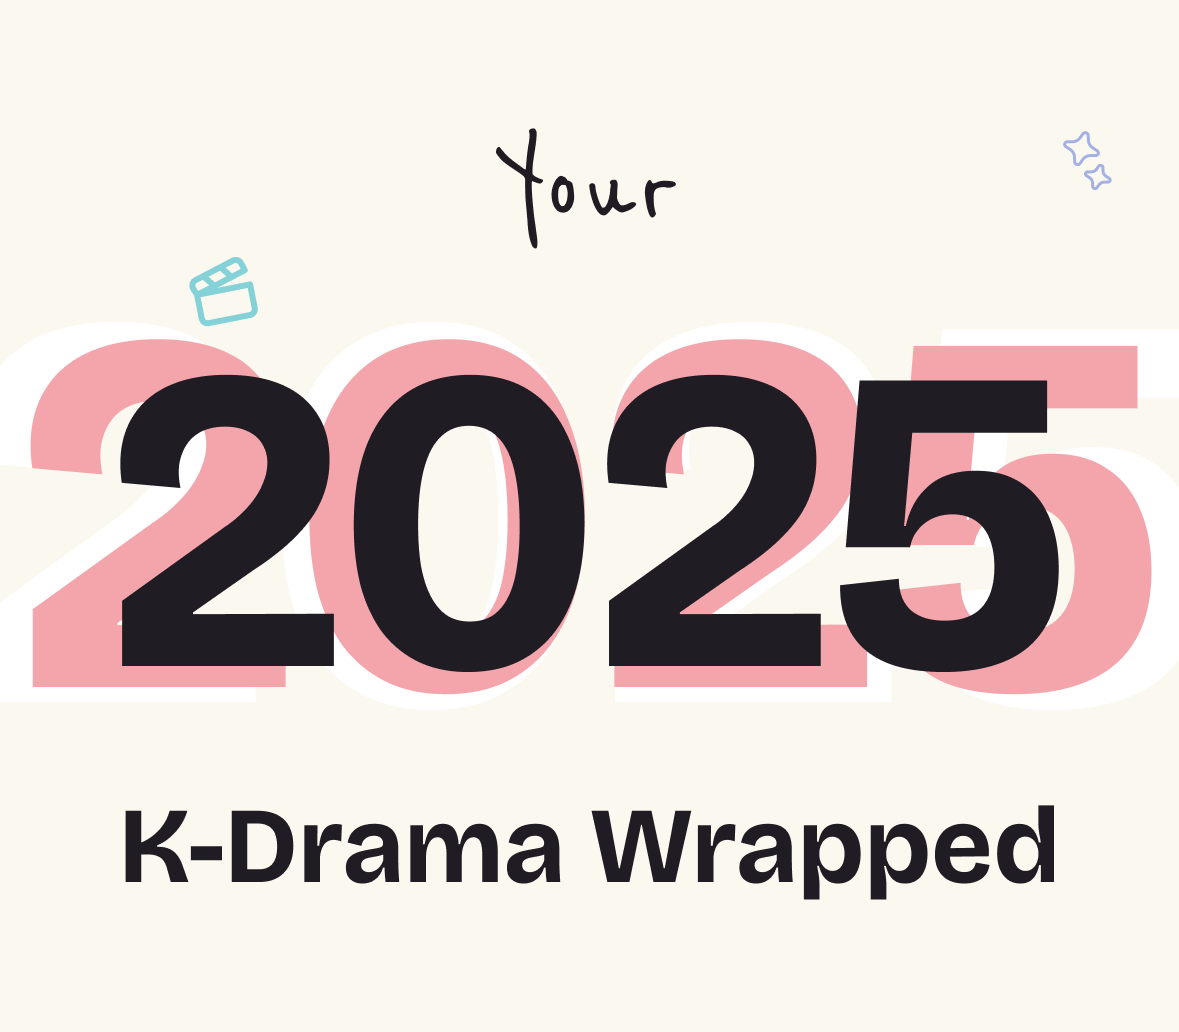
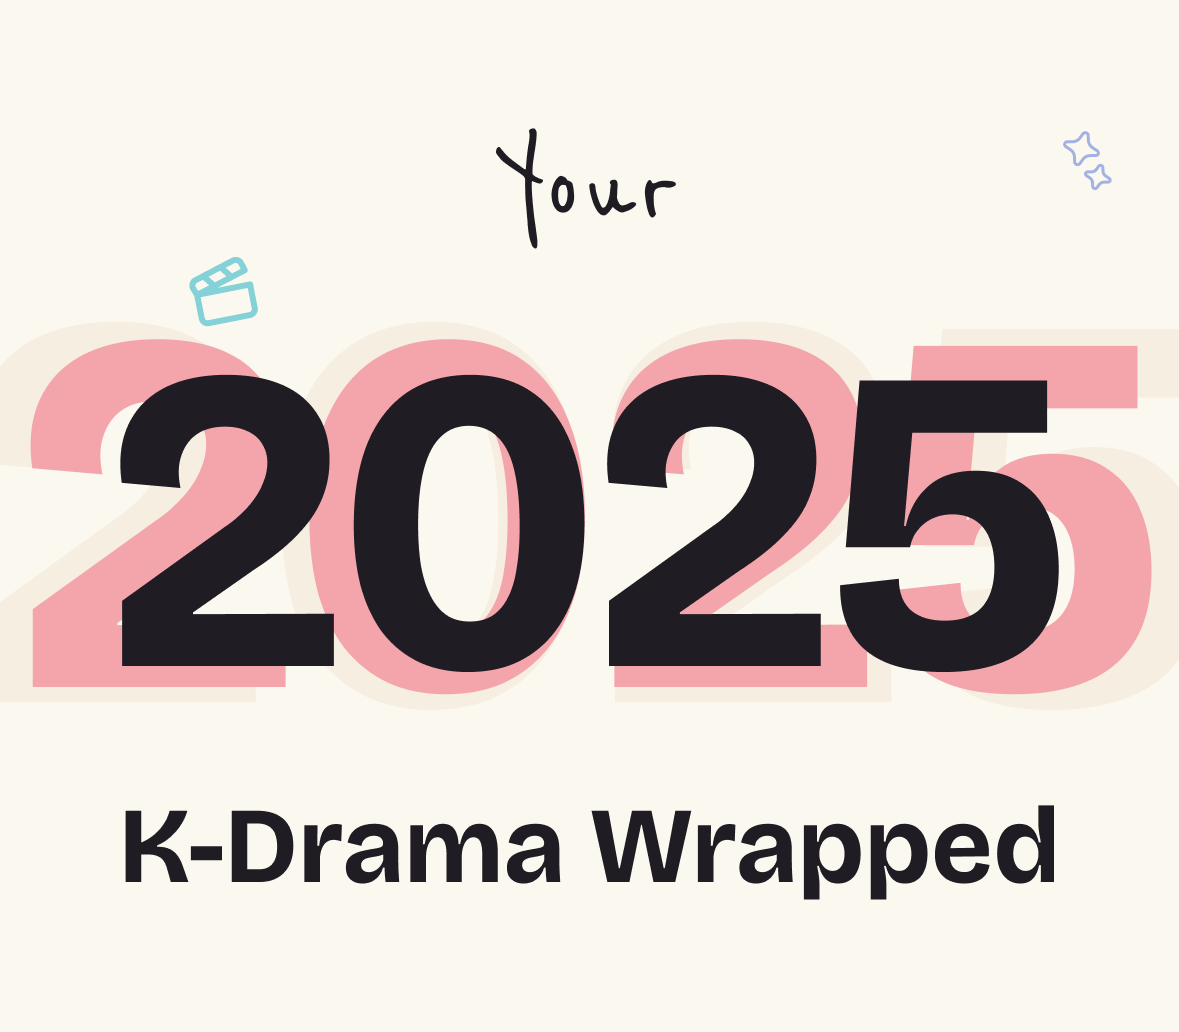
slide 1: the intro done

diff --git a/components/Wrapped/Slide1Intro.tsx b/components/Wrapped/Slide1Intro.tsx
@@ -1,8 +1,6 @@
 "use client";
 
 import { motion } from "framer-motion";
-import Image from "next/image";
-import { ArrowRight } from "lucide-react";
 
 interface Slide1IntroProps {
     onNext: () => void;
@@ -10,35 +8,49 @@ interface Slide1IntroProps {
 
 export default function Slide1Intro({ onNext }: Slide1IntroProps) {
     return (
-        <motion.div
-            className="w-full h-full flex flex-col items-center justify-center relative p-6 min-h-screen overflow-hidden text-center"
-            initial={{ opacity: 0 }}
-            animate={{ opacity: 1 }}
-            exit={{ opacity: 0 }}
-        >
+        <div className="h-screen w-full flex flex-col items-center justify-center relative overflow-hidden no-scrollbar text-center">
             {/* Clapperboard Asset - Decoration */}
             <motion.div
-                className="absolute bottom-20 left-10 w-24 h-24 opacity-60 pointer-events-none"
-                initial={{ rotate: -20, opacity: 0 }}
-                animate={{ rotate: 0, opacity: 0.8 }}
-                transition={{ delay: 0.5, duration: 0.8 }}
+                className="absolute bottom-[37%] left-[32%] w-8 h-8 pointer-events-none"
+                initial={{ rotate: -30, opacity: 0 }}
+                animate={{ rotate: -4, opacity: 0.8 }}
+                transition={{ delay: 0.8, duration: 0.8 }}
             >
                 <img src="/assets/slide1-clapperboard.svg" alt="" className="w-full h-full" />
             </motion.div>
 
             {/* Spark Asset - Decoration */}
             <motion.div
-                className="absolute top-20 right-10 w-16 h-16 opacity-60 pointer-events-none"
-                initial={{ scale: 0, opacity: 0 }}
-                animate={{ scale: 1, opacity: 0.8 }}
-                transition={{ delay: 0.8, duration: 0.5 }}
+                className="absolute top-20 right-10 w-8 h-8 opacity-60 pointer-events-none"
+                initial={{ scale: 0, opacity: 0, rotate: 0 }}
+                animate={{ scale: 1, opacity: 0.8, rotate: 360 }}
+                transition={{
+                    scale: { delay: 0.8, duration: 0.5 },
+                    opacity: { delay: 0.8, duration: 0.5 },
+                    rotate: { duration: 10, repeat: Infinity, ease: "linear" }
+                }}
+            >
+                <img src="/assets/slide1-spark.svg" alt="" className="w-full h-full" />
+            </motion.div>
+
+
+            {/* Spark Asset - Decoration */}
+            <motion.div
+                className="absolute bottom-[10%] left-[10%] w-8 h-8 opacity-60 pointer-events-none"
+                initial={{ scale: 0, opacity: 0, rotate: 0 }}
+                animate={{ scale: 1, opacity: 0.8, rotate: 360 }}
+                transition={{
+                    scale: { delay: 0.8, duration: 0.5 },
+                    opacity: { delay: 0.8, duration: 0.5 },
+                    rotate: { duration: 10, repeat: Infinity, ease: "linear" }
+                }}
             >
                 <img src="/assets/slide1-spark.svg" alt="" className="w-full h-full" />
             </motion.div>
 
             <div className="relative z-10 flex flex-col items-center">
                 <motion.p
-                    className="font-accent text-4xl mb-2"
+                    className="font-accent text-5xl"
                     initial={{ y: 20, opacity: 0 }}
                     animate={{ y: 0, opacity: 1 }}
                     transition={{ delay: 0.2 }}
@@ -47,58 +59,67 @@ export default function Slide1Intro({ onNext }: Slide1IntroProps) {
                 </motion.p>
 
                 {/* Layered 2025 Animation */}
-                <div className="relative w-full max-w-[400px] h-[150px] flex items-center justify-center mb-4">
-                    {/* Background Layer 1: Seed-30 */}
+                <div className="relative w-full h-[144px] flex items-center justify-center">
+                    {/* Background Layer 1: Vibe-90 Slide In From Left */}
                     <motion.h1
-                        className="font-heading font-black text-9xl absolute text-[#e6c8bd] select-none"
-                        initial={{ x: -100, opacity: 0 }}
-                        animate={{ x: 0, opacity: 1 }}
-                        transition={{ duration: 1, ease: "easeOut" }}
+                        className="font-heading font-black text-[120px] md:text-[188px] absolute text-vibe-90 mix-blend-soft-light select-none"
+                        initial={{ x: -400, rotate: -45, opacity: 0 }}
+                        animate={{ x: 0, rotate: 0, opacity: 1 }}
+                        transition={{ duration: 1.2, delay: 0.3, ease: [0.34, 1.56, 0.64, 1] }}
                     >
                         2025
                     </motion.h1>
 
-                    {/* Background Layer 2: White/Off-white */}
+                    {/* Background Layer 2: Seed-30 Slide In From Right */}
                     <motion.h1
-                        className="font-heading font-black text-9xl absolute text-[#F3EFE9] select-none z-10"
-                        initial={{ x: 100, opacity: 0 }}
-                        animate={{ x: 0, opacity: 1 }}
-                        transition={{ duration: 1, ease: "easeOut", delay: 0.2 }}
+                        className="font-heading font-black text-[120px] md:text-[172px] absolute text-seed-30 mix-blend-multiply select-none z-10"
+                        initial={{ x: 400, rotate: 45, opacity: 0 }}
+                        animate={{ x: 0, rotate: 0, opacity: 1 }}
+                        transition={{ duration: 1.2, delay: 0.5, ease: [0.34, 1.56, 0.64, 1] }}
                     >
                         2025
                     </motion.h1>
 
-                    {/* Foreground Layer: Main Text */}
+                    {/* Foreground Layer: Main Text Spring Pop */}
                     <motion.h1
-                        className="font-heading font-black text-9xl absolute text-text-primary z-20"
-                        initial={{ scale: 0.8, opacity: 0 }}
-                        animate={{ scale: 1, opacity: 1 }}
-                        transition={{ duration: 0.8, ease: "easeOut", delay: 0.5 }}
+                        className="font-heading font-black text-[120px] md:text-[144px] absolute text-text-primary z-20"
+                        initial={{ opacity: 0, scale: 0.3, rotate: -10 }}
+                        animate={{ opacity: 1, scale: 1, rotate: 0 }}
+                        transition={{
+                            duration: 0.8,
+                            delay: 1.1,
+                            ease: [0.34, 1.56, 0.64, 1],
+                            scale: {
+                                type: "spring",
+                                damping: 8,
+                                stiffness: 100
+                            }
+                        }}
                     >
                         2025
                     </motion.h1>
                 </div>
 
                 <motion.h2
-                    className="font-heading font-black text-4xl mt-2 tracking-tight"
+                    className="font-heading font-black text-4xl tracking-tight"
                     initial={{ y: 20, opacity: 0 }}
                     animate={{ y: 0, opacity: 1 }}
                     transition={{ delay: 1 }}
                 >
-                    K-Drama Recap
+                    K-Drama Wrapped
                 </motion.h2>
 
                 <motion.button
                     onClick={onNext}
-                    className="mt-16 bg-text-primary text-[#FFFBF5] px-8 py-4 rounded-full font-bold text-lg flex items-center gap-2 hover:opacity-90 transition-opacity"
+                    className="mt-10 bg-text-primary text-bg-primary px-10 py-4 rounded-full font-bold text-lg flex items-center hover:opacity-90 transition-opacity"
                     initial={{ y: 40, opacity: 0 }}
                     animate={{ y: 0, opacity: 1 }}
                     whileHover={{ scale: 1.05 }}
                     transition={{ delay: 1.5 }}
                 >
-                    Continue <ArrowRight size={20} />
+                    View
                 </motion.button>
             </div>
-        </motion.div>
+        </div>
     );
 }
